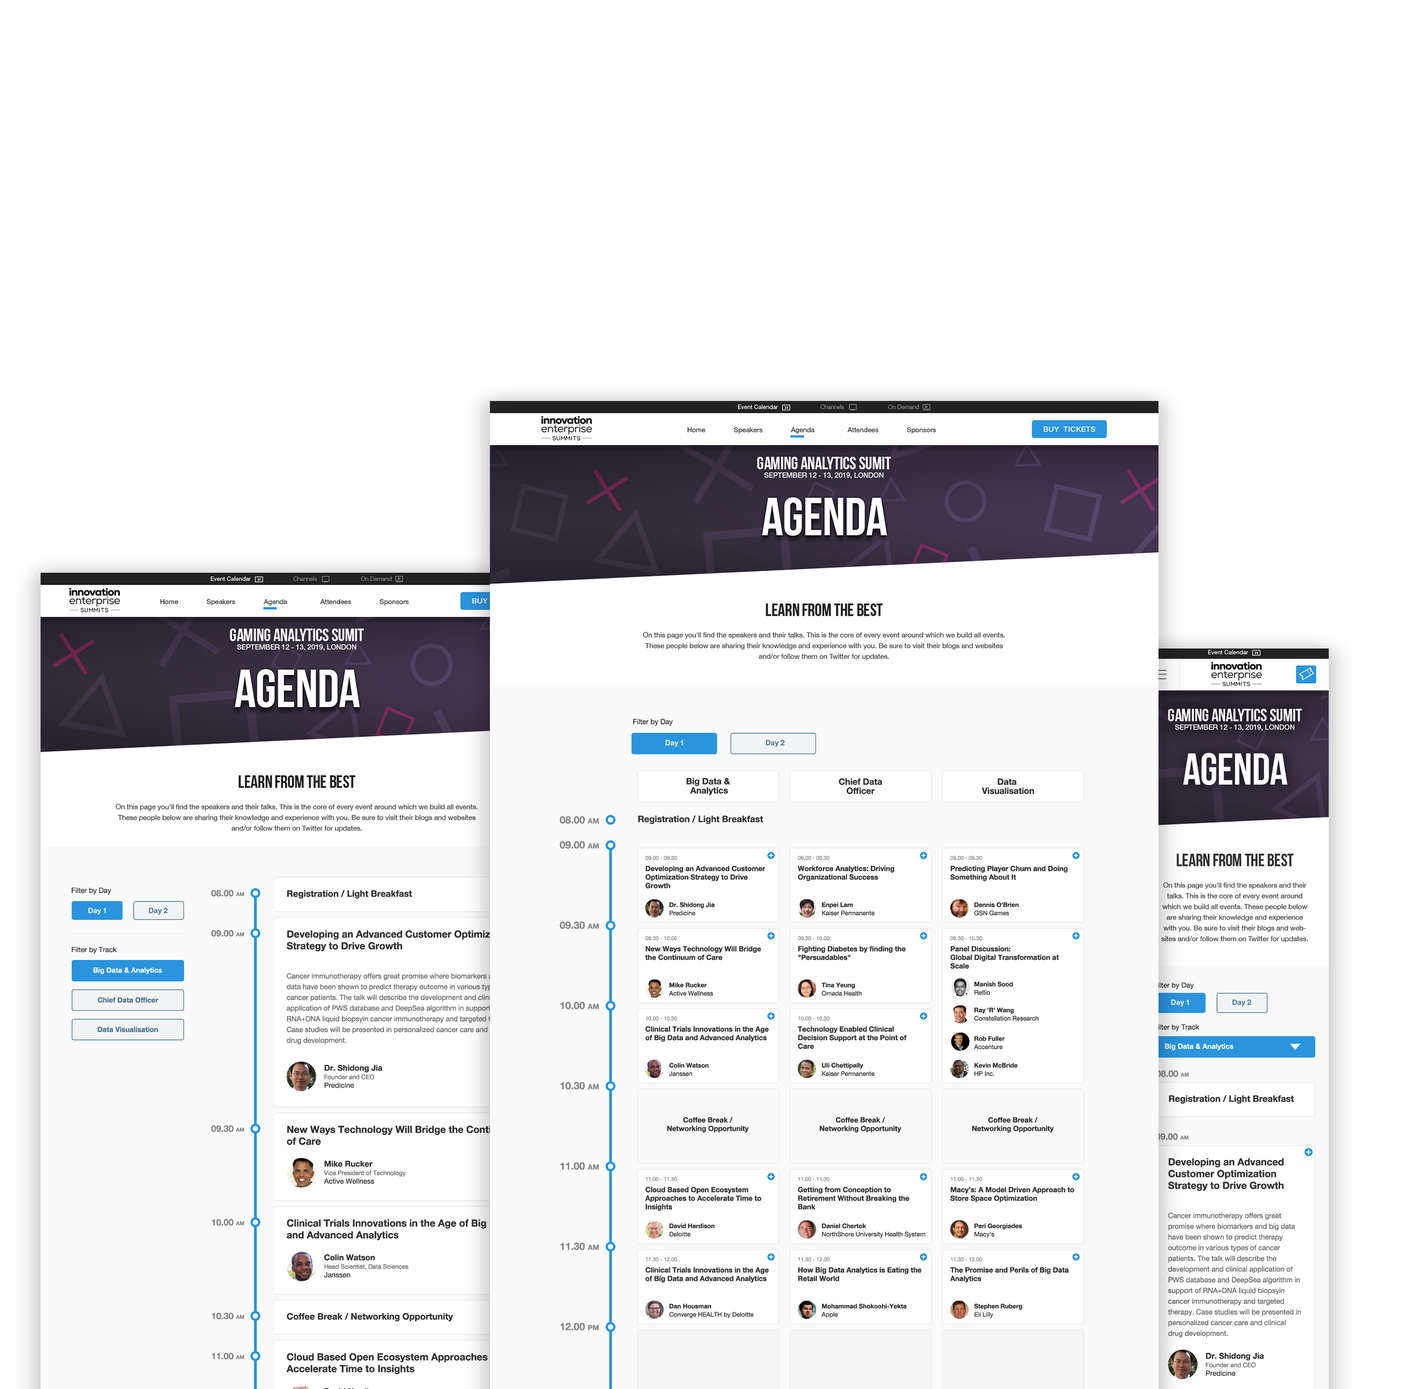
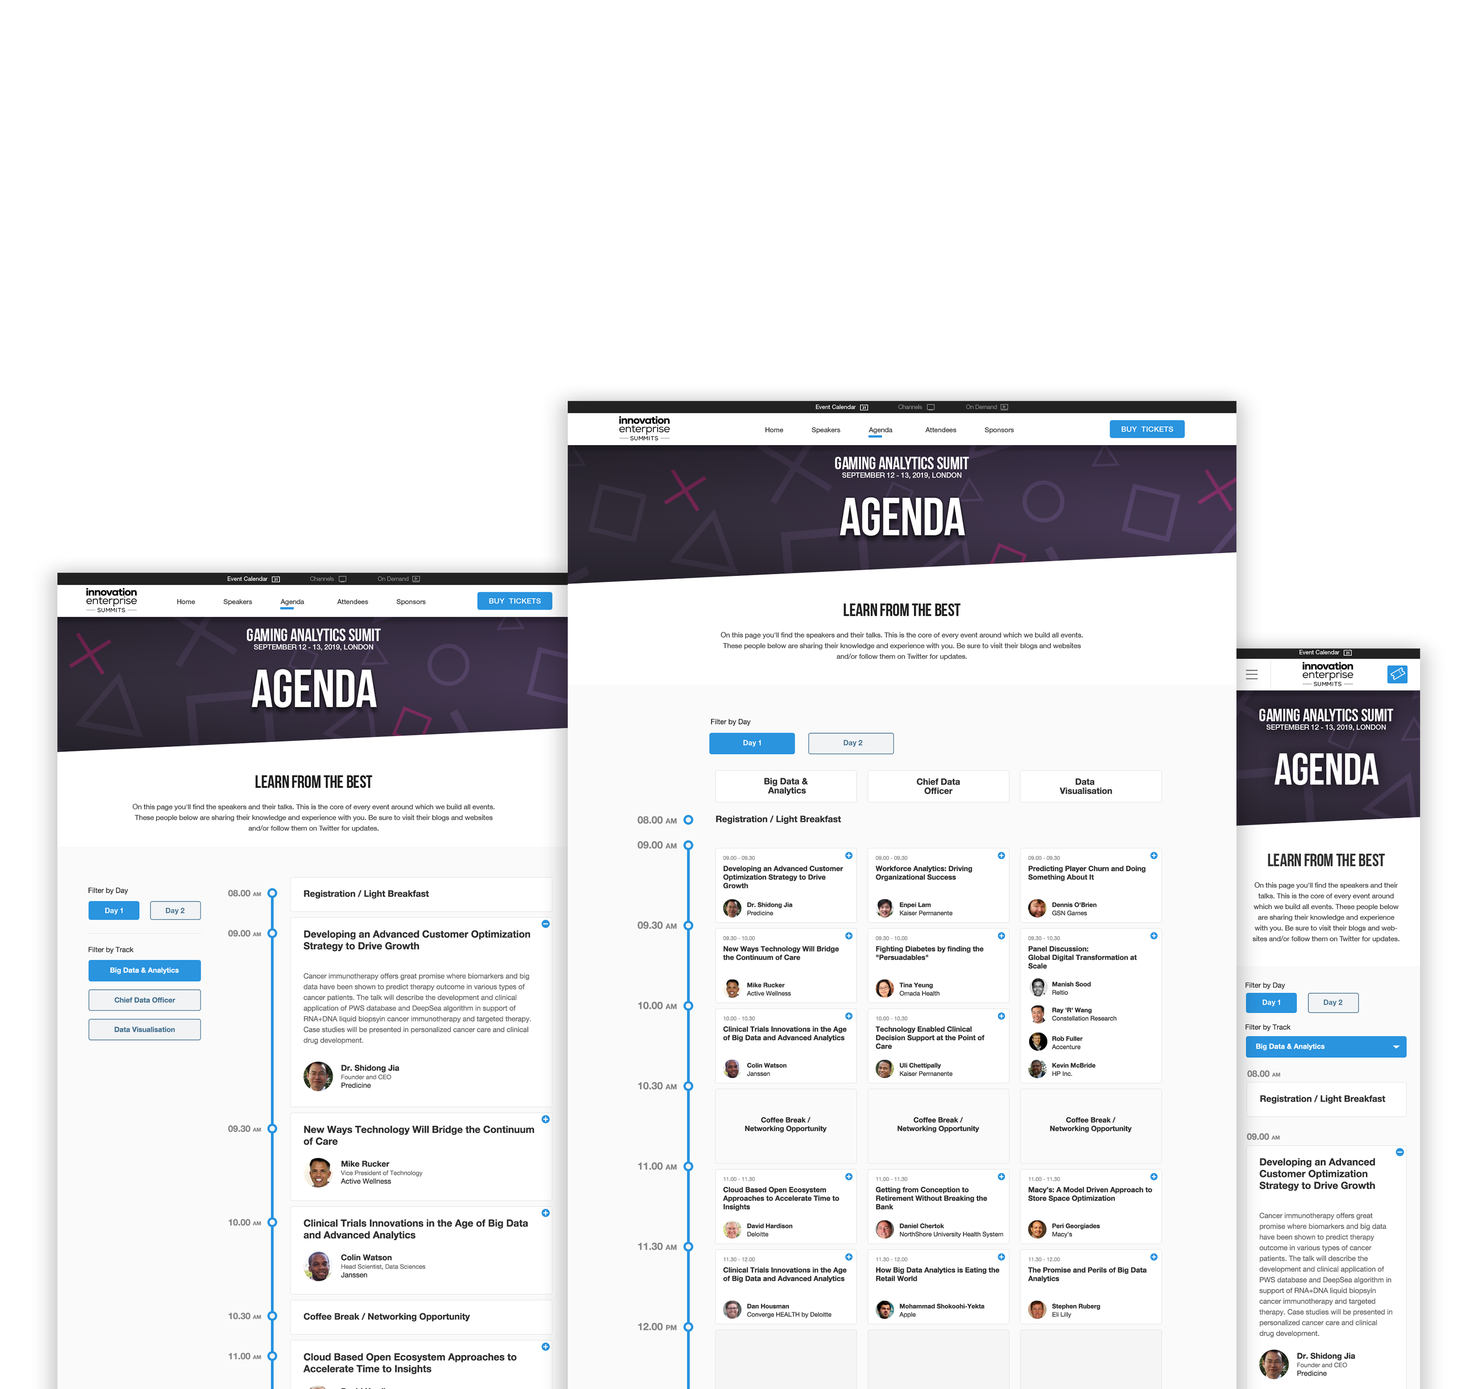
agenda2 added

diff --git a/agenda2.html b/agenda2.html
@@ -1,0 +1,201 @@
+<!DOCTYPE html>
+<html class="no-js" lang="en-GB">
+  <head>
+	<meta charset="utf-8">
+    <meta name="viewport" content="width=device-width,initial-scale=1,shrink-to-fit=no">
+    <link rel="stylesheet" href="css/portfolio.css">
+    <link rel="stylesheet" href="css/headerimages.css">
+    <link rel="stylesheet" href="css/agenda2.css">
+    <link rel="stylesheet" href="css/article.css">
+    <script src="js/javascript.js" defer></script>
+    <link rel="stylesheet" href="https://use.typekit.net/bjk2aea.css">
+    <link rel="shortcut icon" type="image/png" href="images/favicon.png">
+    <link rel="preload" href="images/AgendaCards/headerfrgrnd.png" as="image/png">
+    <link rel="preload" href="images/AgendaCards/headerbkrnd.png" as="image/png">
+	<title>Agenda Page Prt1</title>
+</head>
+
+<body>
+    <nav style="height:82px">
+      <div class="logoheader" id="myHeader">
+        <div class="l-wrap">
+          <div class="logo">
+          <a href="index.html">
+            <img id="logo" src="images/uxlogo.svg" lt="UXlogo" width="223" height="56" onerror="this.onerror=null; this.src='images/uxlogo.png'">
+          </a>
+          </div>
+        </div>
+      <div>
+    </nav>
+    <!--endofheader-->
+    <header class="headergradient">
+      <div class="wide" style="text-shadow: 3px 2px 5px rgba(0,0,0,0.3);">
+        <div class="articleheader" >
+          <div class="articleheadertext">
+            <h4 class="light ">project: event site</h4>
+            <h1 class="light imagesectionheadtext2">Agenda Page</h1>
+          </div>
+          <div class="articleheaderimage">
+            <img src="images/AgendaCards/AgendaHeader11.png"></img>
+          </div>
+        </div>
+      </div>
+    </header>
+    <!--headerend-->
+      <div class="l-wrap">
+     		<div class="twohalfssection section">
+     			<div class="breif">
+       			<h2>Project brief</h2>
+       			<p>An easy way for users to see what order speakers are presenting their presentations and be able to plan their day at the event. To be able to see the presentation title and abstract along.</p>
+            <h3>Requirements</h3>
+            <p>Accommodate single track events and multiple track events.</p>
+            <p>On a multi track event there could be a maximum of six tracks running simultaneously.</p>
+            <p>Minimum presentation length will be at least twenty minutes, the maximum is one hour.</p>
+            <p>Each track could potentially have a different start time and end time.</p>
+            <p>Two Presentation types.<br>Regular presentation: one speaker.<br>Panel session:up to 4 panelists.</p>
+            <h3>Links</h3>
+            <p><a rel="stylesheet" target="_blank" type="text/css" href="https://www.theinnovationenterprise.com/summits/modern-data-management-summit-san-francisco/agenda">Three Track Event</a><br>This is a current 3 track agenda
+            <span class="imagedescription">(the further into the future an event the less likely there will be an agenda made up for it).</span></p>
+            <h3>Prototypes</h3>
+            <p><a rel="stylesheet" target="_blank" type="text/css" href="https://preview.uxpin.com/6adf236a32e425b33ce89284baafe6df1470ee58#/pages/67541104/simulate/no-panels?mode=i">UX PIN prototype</a><br>This is an early prototype to see how the fixed elements would work alongside the agenda.</p>
+
+            <p><a rel="stylesheet" target="_blank" type="text/css" href="https://preview.uxpin.com/9098042a02fe81e8887736213d7744cdcfcabcb6#/pages/67593052/simulate/no-panels">UX PIN 5 track Agenda</a><br>This is an early prototype for a 5 track agenda.</p>
+          </div>
+
+     			<div  class="mainbodytext">
+          <h2>Initial thoughts</h2>
+          <p>The agenda is the most used page on the site. It’s used to entice people into buying a ticket for the event, but also on the day of the event to navigate to which ever presentation they are interested in. Which means on the user end it needs to be easy to navigate on mobile devices (people do bring laptops to events but It’s not ideal to be carrying an open laptop around with you). Also the CMS must be easy to update for event organisers as speaking slots change throughout the day sometimes at very short notice.</p>
+           <div class="fullwidthimg"><h3>Original Agenda page screen recording</h3><video style="width:100%;" autoplay controls loop preload:auto><source src="images/AgendaCards/schedulerecording.mp4" type="video/mp4" width="100%"></video>
+          </div>
+          <p>The original agenda filled its function well enough, it was responsive and you could see what company was speaking and when. If this page didn't need any new features or requirements it would just be restyled to matched to the new style guide.</p> 
+
+          <p>How ever a new type of agenda was required as we were producing more events it made sense for them to have some at the same venue as it was cheaper than renting out two totally different venues. This now meant that as multiple events were in the same venue the possibility of attendees wanting to skip between events was a possibility/ new revenue driver.</p>
+          <!--videoend-->
+          <h2>Interviews</h2>
+          <p>So a New agenda that facilitated multiple tracks was required.
+          As this was a brand new type of Agenda some interviews were carried out with event organisers to make sure everyone agreed on what requirements multitrack agenda was and so that any solutions would meet all of these requirements</p>
+          </div>
+        </div>
+      </div>
+
+      <div class="dark">
+        <div class="">
+           <div class="twohalfssection">
+            <div class="mainbodytext section" style="max-width:90%;padding-top: 150px;padding-bottom: 150px;">
+             <h5 class="light">Identifying Problem Areas</h5>
+             <ul style="padding-left: 18px;">
+             <li class="light">Needs to display multi tracks on a single page</li>
+             <li class="light">The ability to add up to four speakers</li>
+             <li class="light">Must be easy to update</li>
+             </ul>
+             </div>
+             <div class="mainbodytext" style="background-image: url(images/speakers/problembkrnd.png);background-position: top -200px right -250px; background-size:1000px;background-repeat:no-repeat;">
+            </div>
+          </div>
+        </div>
+      </div>
+
+      <div class="imagesectionhead" style="background-image: url(images/AgendaCards/problembkrnd.png);">
+        <div class="wide">
+          <h1 class="imagesectionheadtext light">Solutions</h1>
+        </div>
+      </div>
+      <div class="l-wrap">
+        <div class="twohalfssection section">
+          <div  class="mainbodytext">
+     			<h2>Two types of agenda</h2>
+     			<p>So my first thoughts were that there are two very different agendas that are needed, a single track agenda where there is only one row of presentations and a multi track agenda where there is multiple rows. The single track is definitely a lot simpler than a multi-track agenda. The multi-track agenda has so many more parts just by nature and these all must fit together perfectly</p>
+          <h2>the two types of agenda.</h2>
+          <div class="halfwidthimg"><h3>Single Track</h3><img src="images/AgendaCards/singletrack.jpg"><p class="imagedescription">The Single track agenda is linear, There is only one route from start to finish.</p></div>
+          <div class="halfwidthimg"><h3>Multi Track</h3><img src="images/AgendaCards/multitrack.jpg"><p class="imagedescription">The Multi track is where multiple tracks run alongside each other and a delegate can move between tracks.</p></div>
+
+          <h2>Time accurate cards</h2>
+          <p>One of the issues that I came across first was that these presentations didn’t always start or finish at the same time so this would have to be clear to the user.</p>
+          <div class="halfwidthimg"><h3>Not Time Accurate</h3><img src="images/AgendaCards/nottimeaccurate.jpg"><hr style="background-color:#c12525;"></hr><p class="imagedescription incorrect"><span style="font-weight:bold;font-size:20px;">Problem<br></span>This could easily lead a user who was browsing through the agenda to believe that all these presentations were the same length of time.</p></div>
+          <div class="halfwidthimg"><h3>Time Accurate</h3><img src="images/AgendaCards/timeaccurate.jpg"><hr style="background-color:#80b91e;"></hr><p class="imagedescription correct"><span style="font-weight:bold;font-size:20px;">Solution<br></span>This was a lot was easier for users to see the difference between the lengths of presentations.</p>
+          </div>
+
+          <h2>Mind the Gaps</h2>
+          <p>The vertical space between the presentations has to be taken into account, It has to be included as part of the presentation card height otherwise it mucks up the time accuracy if there are different amount of presentations on each track.</p>
+          <div class="halfwidthimg"><h3>Gaps independent from cards</h3><img src="images/AgendaCards/gapsindependant.jpg"><hr style="background-color:#c12525;"></hr><p class="imagedescription incorrect"><span style="font-weight:bold;font-size:20px;">Problem<br></span>It looks like the 2nd Track finishes 5 mins earlier the more this happens the bigger the gap gets.</p></div>
+          <div class="halfwidthimg"><h3>Gaps incorporated into cards</h3><img src="images/AgendaCards/gapincorporated.jpg"><hr style="background-color:#80b91e;"></hr><p class="imagedescription correct"><span style="font-weight:bold;font-size:20px;">Solution<br></span>By including the gap within the presentation card everything starts and finishes where it should.</p>
+          </div>
+
+          <h2>The Trouble With Being Time accurate</h2>
+          <p>Every event has a registration period of around one and a half hours where delegates can come in and register then have breakfast. At the end of day one there is networking drinks that lasts potentially two hours. The issue with these is that on a time accurate agenda takes up a lot of space, and looks like a delegate is paying for a day where the majority is registration or network drinks.</p>
+          <div class="halfwidthimg"><h3>Big Breakfast</h3><img src="images/AgendaCards/timeaccurate1.jpg"><hr style="background-color:#c12525;"></hr><p class="imagedescription incorrect"><span style="font-weight:bold;font-size:20px;">Problem<br></span>Showing a time accurate breakfast/registration really shows how big it is compared to a presentation, and could potentially put delegates off.</p></div>
+          <div class="halfwidthimg"><h3>Hiding how big breakfast was</h3><img src="images/AgendaCards/timeaccurate2.jpg"><hr style="background-color:#80b91e;"></hr><p class="imagedescription correct"><span style="font-weight:bold;font-size:20px;">Solution<br></span>Heads & Tails style slot<br>This alternate time slot is used to hide the amount of room an accurate timed registration or networking drinks will take up. It will only work at the start or end of a day. It is the only part of a multi track agenda that isn't time accurate.</p>
+          </div>
+
+          <h2>Sometimes there just isn’t enough room</h2>
+          <p>When there is enough room we show multiple tracks next to each other, as its alot easier to understand and plan a day, However when there isn’t enough room to show tracks next to each other we revert back to the single track view with a tab down the left hand side to select which track the user wants.</p>
+          <div class="fullwidthimg"><h3>Responsive Layout changes</h3><img src="images/AgendaCards/responsive.gif"><p class="imagedescription">Responsive changes Multi to a single track (With track filter) type agenda view when there isn’t  enough space.</p>
+          </div>
+          <div class="fullwidthimg"><h3>Desktop</h3><img src="images/AgendaCards/noroom1.1.jpg"><p class="imagedescription">This displays all the presentations in a way that is easy to plan, which is great when you have a screen big enough to do this.</p>
+          </div>
+          <div class="halfwidthimg"><h3>Tablet</h3><img src="images/AgendaCards/noroom2.1.jpg"><p class="imagedescription">Now there isn’t enough room to display the presentations side by side. The agenda now turns into the single track view. The single track view display is more like the single track event but with a tab system to change which track is displaying.</p>
+          </div>
+          <div class="halfwidthimg"><h3>Mobile</h3><img src="images/AgendaCards/noroom3.1.jpg"><p class="imagedescription">The tab now becomes a dropdown for selecting which track is displaying.</p>
+          </div>
+
+          <h2>The Two Card Types</h2>
+          <p>It was important to work out the different presentation card types, and how they would work across the two different agenda types.</p>
+          <div class="halfwidthimg" style="max-width: 357px;"><h3>Single track Agenda</h3><img src="images/AgendaCards/WireCardsingle.png"><p class="imagedescription">The presentation card opens up and pushes everything below it down.</p></div>
+          <div class="halfwidthimg" style="max-width: 357px;"><h3>Multi track Agenda</h3><img src="images/AgendaCards/WireCardMulti.png"><p class="imagedescription">As the presentation card can't slide down like on a single track, as that would throw everything off time that was below it, We used a modal to overcome this issue.</p>
+          </div>
+
+
+          <h2>Card Concepts Hi Fidelity</h2>
+          <p>First attempt at putting some ideas together for the presentation cards.</p>
+
+          <h2 style="margin-bottom: 0px;">Concept: Top Bar</h2>
+          <div class="halfwidthimg"><h3>Reg Presentation closed</h3><img src="images/AgendaCards/TopBar1.png"><h3>Reg Presentation Open</h3><img src="images/AgendaCards/TopBar2.png"><p class="imagedescription">The top bar works well on regular presentations with one speaker and leaves enough room for long names and job titles.</p></div>
+          <div class="halfwidthimg"><h3>Panel Session closed</h3><img src="images/AgendaCards/TopBar1PanelB.png"><h3>Panel Session Open</h3><img src="images/AgendaCards/TopBar2PanelB.png"><p class="imagedescription">Fairly happy with this but with so little space on the multi track agenda this will not work.</p></div>
+
+          <h2 style="margin-bottom: 0px;">Concept: Top Stripe</h2>
+          <div class="halfwidthimg"><h3>Reg Presentation closed</h3><img src="images/AgendaCards/TopStripe1.png"><h3>Reg Presentation Open</h3><img src="images/AgendaCards/TopStripe2.png"><p class="imagedescription">The speaker profile picture and the presentation time get closer together as the screen width reduces.</p></div>
+          <div class="halfwidthimg"><h3>Panel Session closed</h3><img src="images/AgendaCards/TopStripe1Panel.png"><h3>Panel Session Open</h3><img src="images/AgendaCards/TopStripe2Panel.png"><p class="imagedescription">Panel Session open suffers with speaker headshot being repeated as there isnt enough room to have the names near the top stripe, and didn't want the headshots to disappear and leave an empty top stripe.</p></div>
+
+          <h2 style="margin-bottom: 0px;">Concept: Side Bar</h2>
+          <div class="halfwidthimg"><h3>Reg Presentation closed</h3><img src="images/AgendaCards/Square1.png"><h3>Reg Presentation Open</h3><img src="images/AgendaCards/Square2.png"><p class="imagedescription">Fairly happy with this on a regular presentation the open card could potentially display speakers social media links in the expanded sidebar.</p></div>
+          <div class="halfwidthimg"><h3>Panel Session closed</h3><img src="images/AgendaCards/Square1Panel.png"><img src="images/AgendaCards/Square1PanelB.png"><h3>Panel Session Open</h3><img src="images/AgendaCards/Square2Panel.png"><p class="imagedescription">The panel session closed just doesn't look right with the four speaker headshots.</p></div>
+
+          <h2 style="margin-bottom: 0px;">Concept:Barebones</h2>
+          <div class="halfwidthimg"><h3>Reg Presentation closed</h3><img src="images/AgendaCards/Plain1.png"><h3>Reg Presentation Open</h3><img src="images/AgendaCards/Plain2.png"><p class="imagedescription">This was by far the most vanilla option however with all of the space constraints of the multi track agenda cards this could be the only option available.</p></div>
+          <div class="halfwidthimg"><h3>Panel Session closed</h3><img src="images/AgendaCards/Plain1Panel.png"><h3>Panel Session Open</h3><img src="images/AgendaCards/Plain2Panel.png"><p class="imagedescription">The card slides open the same as a regular presentation to reveal the panelists names.</p></div>
+
+          <h2>Time equals height</h2>
+          <p>So I knew that space in the time relative cards would be limited but wanted to get a better idea of this, I tested out a few different scales and padding options but this worked the best. Too small and there was no room in the standard thirty minute presentation, Too much and the one hour presentation looks massive and empty.</p>
+          <div class="fullwidthimg"><h3>Time Scale 1min:6px</h3><img src="images/AgendaCards/TimeScaleD.png"><p class="imagedescription">The job title was removed to free up some space, (it re-appears once the card is opened) But there really isn't too much room for decoration, and I think it needs to be consistent from single track view to multi track view. So the plain option is looking like a winner at the moment.</p></div>
+
+        </div>
+      </div>
+    </div>
+    <div class="l-wrap"  style="width:80%;"> 
+      <h2  style="font-size: 38px;text-align: center;line-height: 33px;">Hi Fidelity Single Track concept</h2>
+      <div class="superwidthimg" style="width:100%;"><img src="images/AgendaCards/Agenda1polishedSingle.png"></div>
+
+      <h2 style="font-size: 38px;text-align: center;line-height: 33px;">Hi Fidelity Multi Track concept</h2>
+      <div class="superwidthimg" style="width:100%;"><img src="images/AgendaCards/Agenda1polishedMulti.png"></div>
+    <div class="l-wrap" style="max-width:900px"> 
+      <h2>Working Prototype</h2>
+      <p>After making the high fidelity concepts I was lucky enough to have a developer, code a working prototype, the complexity of the different tracks was too much to build in a prototyping application like UX PIN or invision.</p>
+    </div>
+      <div class="superwidthimg" style="width:100%;"><h3>working 3 track prototype</h3><video style="width:100%;" autoplay controls loop preload:auto><source src="images/AgendaCards/AgendaVid.mp4" type="video/mp4" width="100%" ></video></div>
+    </div>
+    <!--Footer-->
+    <footer>
+      <div style="background-color:#222222">
+        <div class="l-wrap section">
+          <h2 style="color:#ffffff;text-align:left;font-size:46px;line-height:44px;">Get in touch</h2>
+          <p style="color:#888888;">Lets work together, to make the world a better place, for you and for me and the entire human race <a href="mailto:contact@gavin-bailey.com?subject=Hello%20Gavin" target="_top" style="text-decoration:underline;color:#ffffff;font-size:18px;line-height:18px;font-weight:bold;">contact@gavin-bailey.com</p></a>
+        </div>
+        <p style="font-size:12px;line-height: 14px;color:#ffffff;text-align:right;padding: 20px;">Site designed and developed by Gavin Bailey. 2019</p>
+      </div>
+    </footer>
+    <!--Footerend-->
+
+
+    
+	</body>
+</html>

diff --git a/CSS/agenda.css b/CSS/agenda.css
@@ -6,16 +6,17 @@
 }
 .articleheader{
 	background:linear-gradient(90deg, rgba(0,0,0,0.55) 0%,rgba(0,0,0,0) 100%),
-		url(../images/AgendaCards/AgendaHeader12.png), linear-gradient(-35deg, #ffffff 0%, #f0f0f0 53%, #59466d 53.01%, #3c3445 100%);
+		url(../images/AgendaCards/AgendaHeader12.png), linear-gradient(-35deg, #ffffff 0%, #f0f0f0 41%, #59466d 41.01%, #3c3445 100%);
     background-size:cover,contain,cover;
     background-repeat:no-repeat;
-    background-position:right bottom,right bottom,top right;
+    background-position:right bottom,right center,top right;
 	height: 50vmin;
     min-height: 300px;
 	margin: auto;
 	width: 100%;
 	position: relative;
 	padding:0;
+	background-attachment: scroll, fixed, scroll;
 }
 @media (min-width:700px) {
 	.articleheader{
@@ -24,6 +25,7 @@
 		background-repeat: no-repeat;
 		background-position: right bottom,right -33px center, top right;
 		height: 80vmin;
+		background-attachment: scroll,fixed, scroll;
 	}
 } 
 @media (min-width:1335px) {
@@ -38,7 +40,7 @@
 }
 @media (min-width:1700px) {
 	.articleheader{
-		background: url(../images/AgendaCards/AgendaHeader12.png), linear-gradient(-12deg, #ffffff 0%, #f0f0f0 53%, #59466d 53.01%, #3c3445 100%);
+		background: url(../images/AgendaCards/AgendaHeader12.png), linear-gradient(-12deg, #ffffff 0%, #f0f0f0 53%, #59466d 53.01%, #27242a 100%);
 	    background-size: 1400px,cover;
 	    background-repeat: no-repeat, repeat;
 	    background-position: right 13px center, bottom;

diff --git a/CSS/agenda2.css b/CSS/agenda2.css
@@ -1,0 +1,43 @@
+.agendacard{
+	background-image: url(../images/agendaCards/agendacard.png),linear-gradient(-59.5deg, #3c3445 0%, #59466d 72%, #ffffff 72%);
+    background-position: top -83px right -25px, center;
+    background-size: 375px, auto;
+    background-repeat: no-repeat;
+}
+.headergradient{
+	background:linear-gradient(-35deg, #ffffff 0%, #f0f0f0 41%, #59466d 41.01%, #3c3445 100%);
+
+}
+.articleheader{
+	height:400px;
+	overflow: hidden;
+	display:flex;
+	flex-direction: column;
+	padding: 0px 10px 0px 10px;
+}
+.articleheadertext{
+	padding: 4% 0;
+	flex:1;
+
+}
+.articleheaderimage{
+	flex: 2;
+	align-self: flex-end;
+	margin-bottom: -5px;
+	max-height: 584px;
+}
+@media (min-width:900px) {
+	.articleheader{
+		height:600px;
+		overflow: visible;
+		display:flex;
+		flex-direction: row;
+	}
+	.articleheadertext{
+		padding-top: 10%;
+	}
+	.articleheaderimage{
+		max-height: 584px;
+    	min-width: 626px;
+	}
+}
